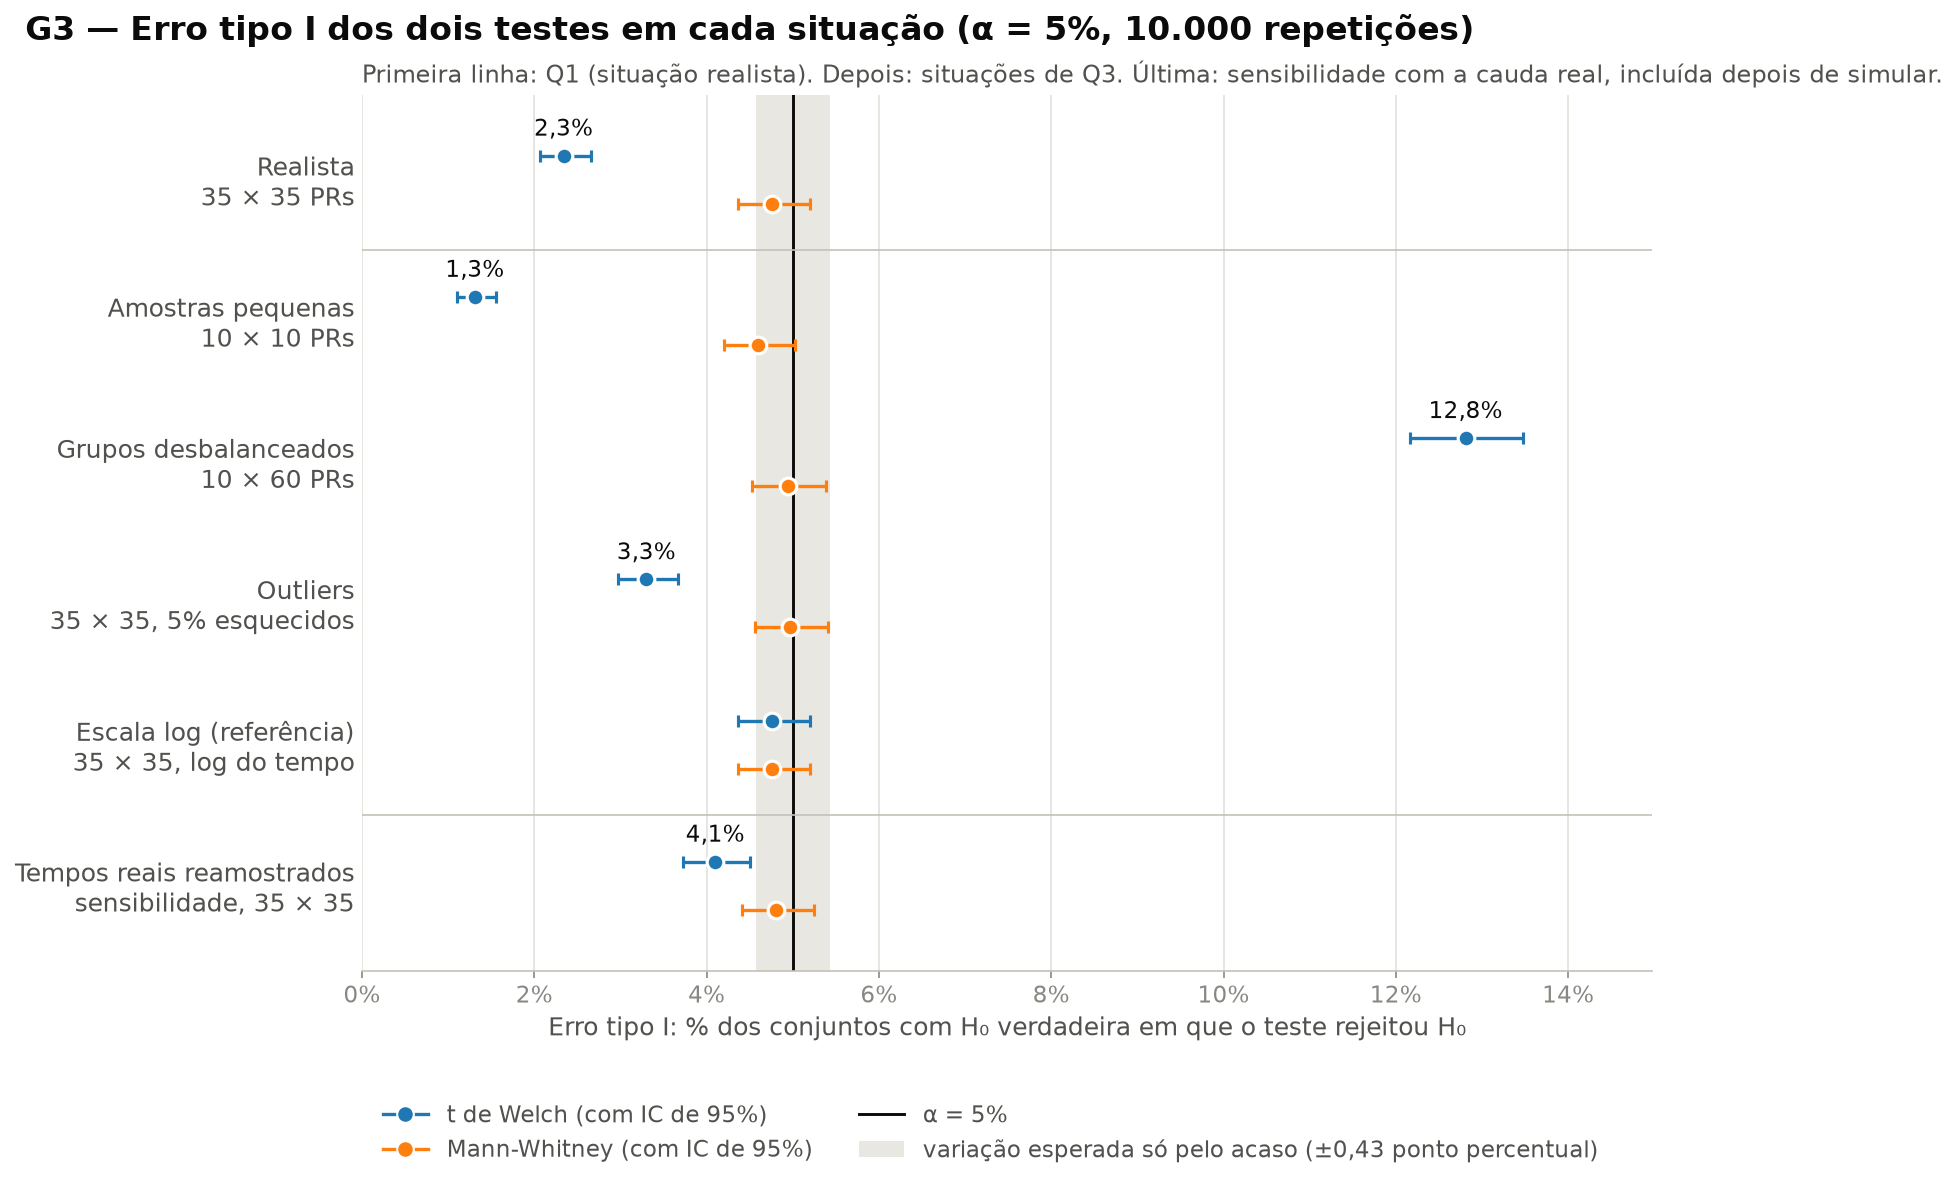
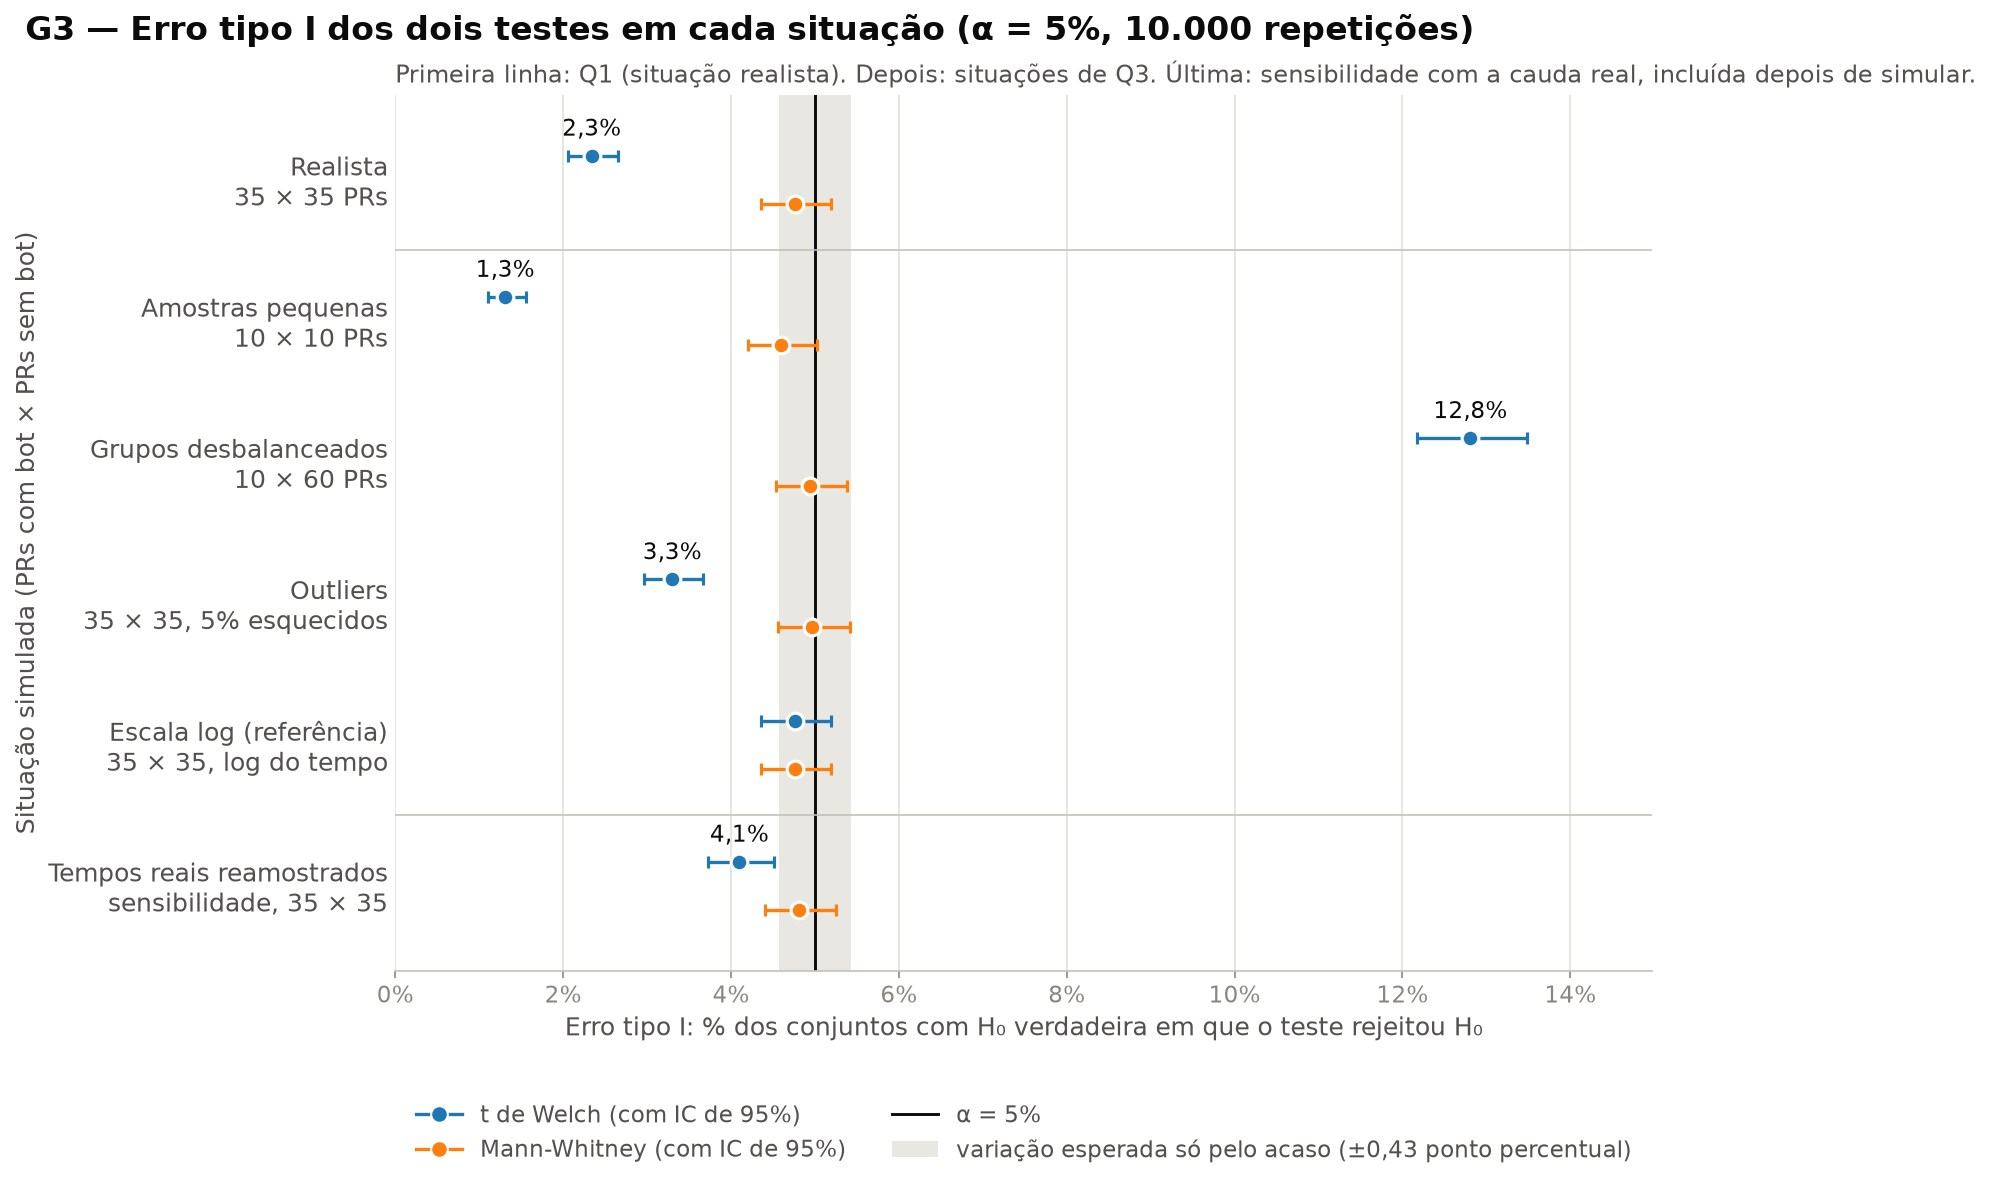
fix: #18 nomeia o eixo das situacoes

diff --git a/src/grafico_g3.py b/src/grafico_g3.py
@@ -122,12 +122,14 @@ def grafico_g3(tabela: pd.DataFrame | None = None, alpha: float | None = None) -
         "Erro tipo I: % dos conjuntos com H₀ verdadeira em que o teste rejeitou H₀",
         color=TINTA_SECUNDARIA,
     )
+    ax.set_ylabel("Situação simulada (PRs com bot × PRs sem bot)", color=TINTA_SECUNDARIA)
     for lado in ("top", "right", "left"):
         ax.spines[lado].set_visible(False)
     ax.spines["bottom"].set_color(EIXO)
     ax.tick_params(axis="x", colors=TINTA_FRACA, labelsize=11)
     ax.tick_params(axis="y", colors=TINTA_SECUNDARIA, labelsize=12, length=0)
     ax.xaxis.label.set_size(12)
+    ax.yaxis.label.set_size(12)
     ax.grid(axis="x", color=GRADE, linewidth=0.8)
     ax.set_axisbelow(True)
 

diff --git a/tests/test_grafico_g3.py b/tests/test_grafico_g3.py
@@ -28,6 +28,8 @@ def test_g3_tem_titulo_eixo_e_legenda(tabela: pd.DataFrame) -> None:
     ax = fig.axes[0]
     assert "G3" in fig.get_suptitle()
     assert "Erro tipo I" in ax.get_xlabel() and "%" in ax.get_xlabel()
+    # O enunciado pede nome nos dois eixos; o vertical é o das situações.
+    assert "Situação simulada" in ax.get_ylabel() and "PRs" in ax.get_ylabel()
     textos = [t.get_text() for t in ax.get_legend().get_texts()]
     assert any("t de Welch" in t for t in textos)
     assert any("Mann-Whitney" in t for t in textos)
